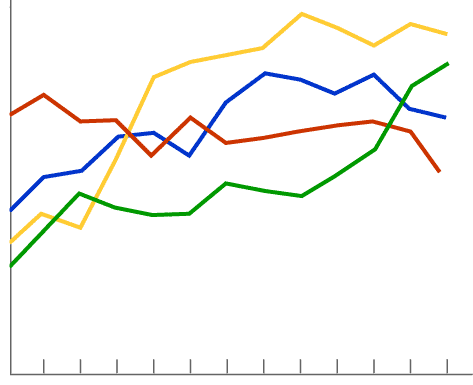
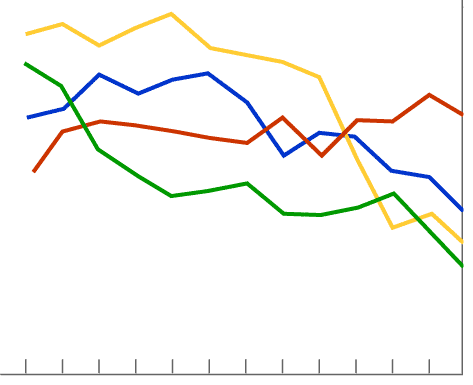
adds better stats page

diff --git a/mobile/ionic-project/maktabti/www/templates/tab-stats.html b/mobile/ionic-project/maktabti/www/templates/tab-stats.html
@@ -1,16 +1,17 @@
-<ion-view view-title="Stats" classe="stats-view">
-    <ion-content>
-        <div class="col">
-            <div id="tab-stats-div-1" class="row row-33 row-offset-33">This month, I read </div>
-            <div id="tab-stats-div-2" class="row">{{numberReadBooks}}</div>
-            <div id="tab-stats-div-3" class="row">books!</div>
+<ion-view view-title="إحصائيات" classe="stats-view">
+    <ion-content dir="rtl">
+       <center> <div class="col">
+            <h2><div style="line-height:10px" id="tab-stats-div-1" class="row row-33 row-offset-33">الشهر الماضي قرأت:</div></h2>
+            <div style="line-height:40px" id="tab-stats-div-yellow" class="row"> {{numberReadWords}} كلمة</div>
+            <div style="line-height:50px" id="tab-stats-div-green" class="row"> {{numberReadBooks}} قصص</div>
+            <div style="line-height:50px" id="tab-stats-div-red" class="row"> {{numberDays}} يوم على التوالي</div>
+            <!--<div ngStyle="line-height:40px padding-top:50px" id="tab-stats-div-2" class="row"> قصص {{numberReadBooks}}</div>-->
+        </div> </center>
+         <div class="col">
+            <center> <img class src="img/linegraph.png"></center>
         </div>
-         <!--<div class="col">
-             <img src="img/linegraph.png">
-        </div>-->
     </ion-content>
 </ion-view>
-
 
 <!--
         <ion-list>

diff --git a/mobile/ionic-project/maktabti/www/css/style.css b/mobile/ionic-project/maktabti/www/css/style.css
@@ -6,6 +6,7 @@
     padding-top: 50px;
     padding-left: 120px;
     color: #387ef5;
+    font-size: 150%;
 }
 
 #tab-stats-div-2
@@ -13,7 +14,31 @@
     padding-top: 30px;
     padding-left: 120px;
     color: #387ef5;
-    font-size: 700%;
+    font-size: 400%;
+}
+
+#tab-stats-div-red
+{
+    padding-top: 30px;
+    padding-left: 120px;
+    color: #CC3401;
+    font-size: 400%;
+}
+
+#tab-stats-div-green
+{
+    padding-top: 30px;
+    padding-left: 120px;
+    color: #019901;
+    font-size: 400%;
+}
+
+#tab-stats-div-yellow
+{
+    padding-top: 30px;
+    padding-left: 120px;
+    color: #FFCC34;
+    font-size: 400%;
 }
 
 #tab-stats-div-3

diff --git a/mobile/ionic-project/maktabti/www/js/controllers.js b/mobile/ionic-project/maktabti/www/js/controllers.js
@@ -123,7 +123,9 @@ angular.module('starter.controllers', [])
 })
 
 .controller('StatsCtrl', function($scope) {
-  $scope.numberReadBooks = 10;
+  $scope.numberReadBooks = 9;
+  $scope.numberReadWords = 451;
+  $scope.numberDays = 24;
 })
 
 
